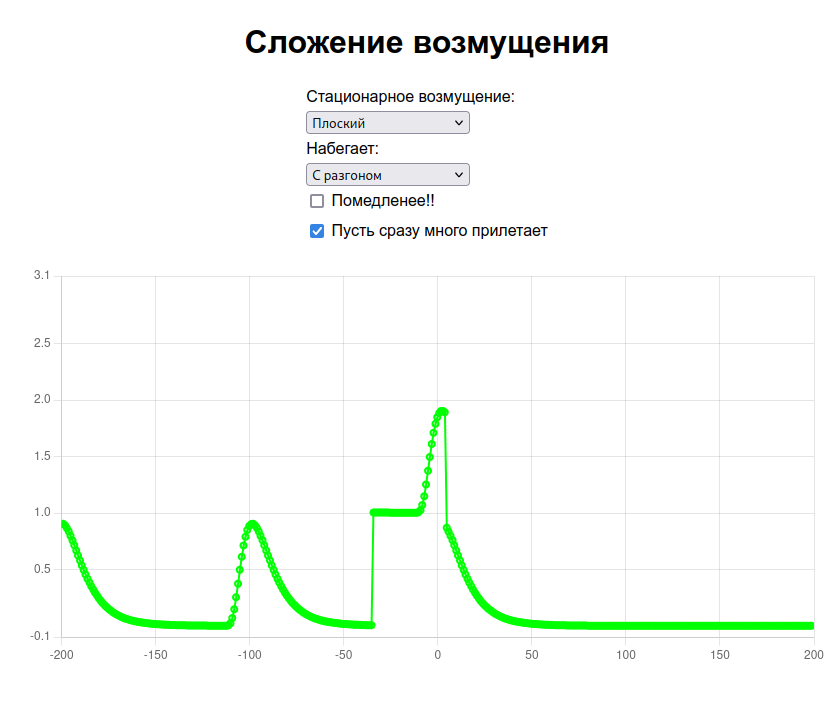
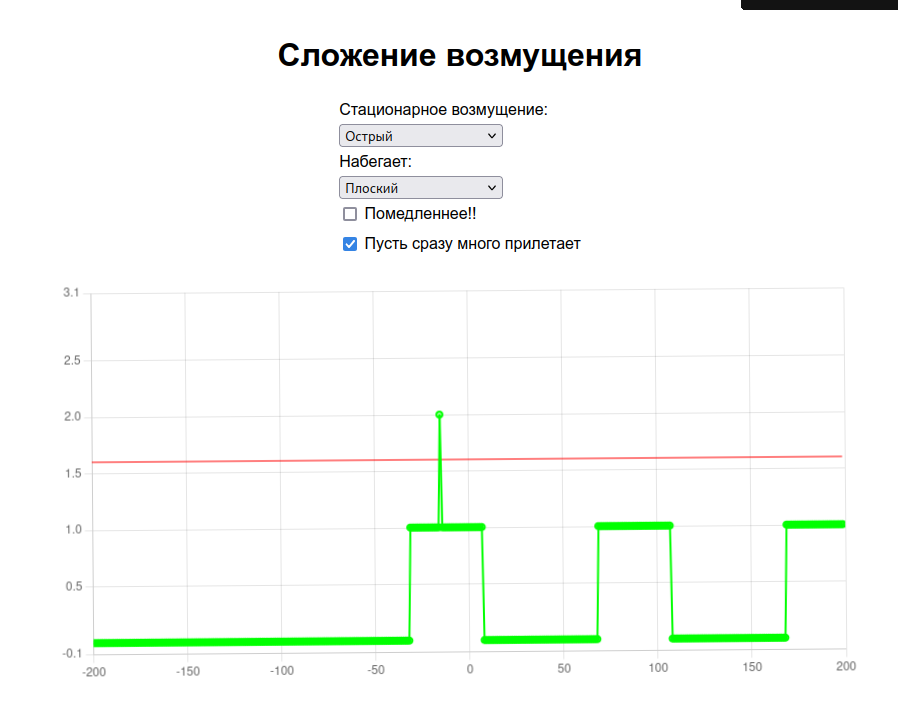
Add shakescreen effect

diff --git a/signals.html b/signals.html
@@ -25,6 +25,24 @@
         .chart-container {
             width: 800px;
             height: 400px;
+            transition: transform 0.05s;
+        }
+        @keyframes shake {
+            0% { transform: translate(1px, 1px) rotate(0deg); }
+            10% { transform: translate(-1px, -2px) rotate(-1deg); }
+            20% { transform: translate(-3px, 0px) rotate(1deg); }
+            30% { transform: translate(3px, 2px) rotate(0deg); }
+            40% { transform: translate(1px, -1px) rotate(1deg); }
+            50% { transform: translate(-1px, 2px) rotate(-1deg); }
+            60% { transform: translate(-3px, 1px) rotate(0deg); }
+            70% { transform: translate(3px, 1px) rotate(-1deg); }
+            80% { transform: translate(-1px, -1px) rotate(1deg); }
+            90% { transform: translate(1px, 2px) rotate(0deg); }
+            100% { transform: translate(1px, -2px) rotate(-1deg); }
+        }
+        .shake {
+            animation: shake 0.5s;
+            animation-iteration-count: infinite;
         }
     </style>
 </head>
@@ -51,7 +69,7 @@
         </select>
         
         <label>
-            <input type="checkbox" id="slowMotion"> Помедленее!!
+            <input type="checkbox" id="slowMotion"> Помедленнее!!
         </label>
         <label>
             <input type="checkbox" id="tripleMode"> Пусть сразу много прилетает
@@ -69,6 +87,7 @@
         let isTripleMode = false;
         const signalTypes = ['square', 'delta', 'decaying', 'decayingSlow', 'lognormal'];
         let randomSignals = [getRandomSignalType(), getRandomSignalType(), getRandomSignalType()];
+        const thresholdValue = 1.6;
 
         function getRandomSignalType() {
             return signalTypes[Math.floor(Math.random() * signalTypes.length)];
@@ -125,6 +144,13 @@
 
             chart.data.datasets[0].data = sumSignal;
             chart.update();
+
+            // Check if sumSignal exceeds threshold and apply shake effect
+            if (sumSignal.some(v => v > thresholdValue)) {
+                document.querySelector('.chart-container').classList.add('shake');
+            } else {
+                document.querySelector('.chart-container').classList.remove('shake');
+            }
         }
 
         function createChart() {
@@ -132,13 +158,21 @@
                 type: 'line',
                 data: {
                     labels: Array.from({length: 400}, (_, i) => i - 200),
-                    datasets: [{
-                        data: [],
-                        borderColor: 'rgba(0, 255, 0, 1)',
-                        backgroundColor: 'rgba(0, 255, 0, 0.2)',
-                        fill: false,
-                        borderWidth: 2
-                    }]
+                    datasets: [
+                        {
+                            data: [],
+                            borderColor: 'rgba(0, 255, 0, 1)',
+                            backgroundColor: 'rgba(0, 255, 0, 0.2)',
+                            fill: false,
+                            borderWidth: 2
+                        },
+                        {
+                            data: Array(400).fill(thresholdValue),
+                            borderColor: 'rgba(255, 0, 0, 1)',
+                            borderWidth: 1,
+                            pointRadius: 0
+                        }
+                    ]
                 },
                 options: {
                     responsive: true,

diff --git a/README.md b/README.md
@@ -12,6 +12,6 @@
 * затухающий быстро (e^-x)
 * затухающий помедленнее (e^-0.5x)
 
-Один сигнал "догоняет" второй.
+Один сигнал "догоняет" второй. А когда вся сумма пересекает красную черту, график аж трясёт
 
 ![signals screenshot](./screenshots/signals.png)
